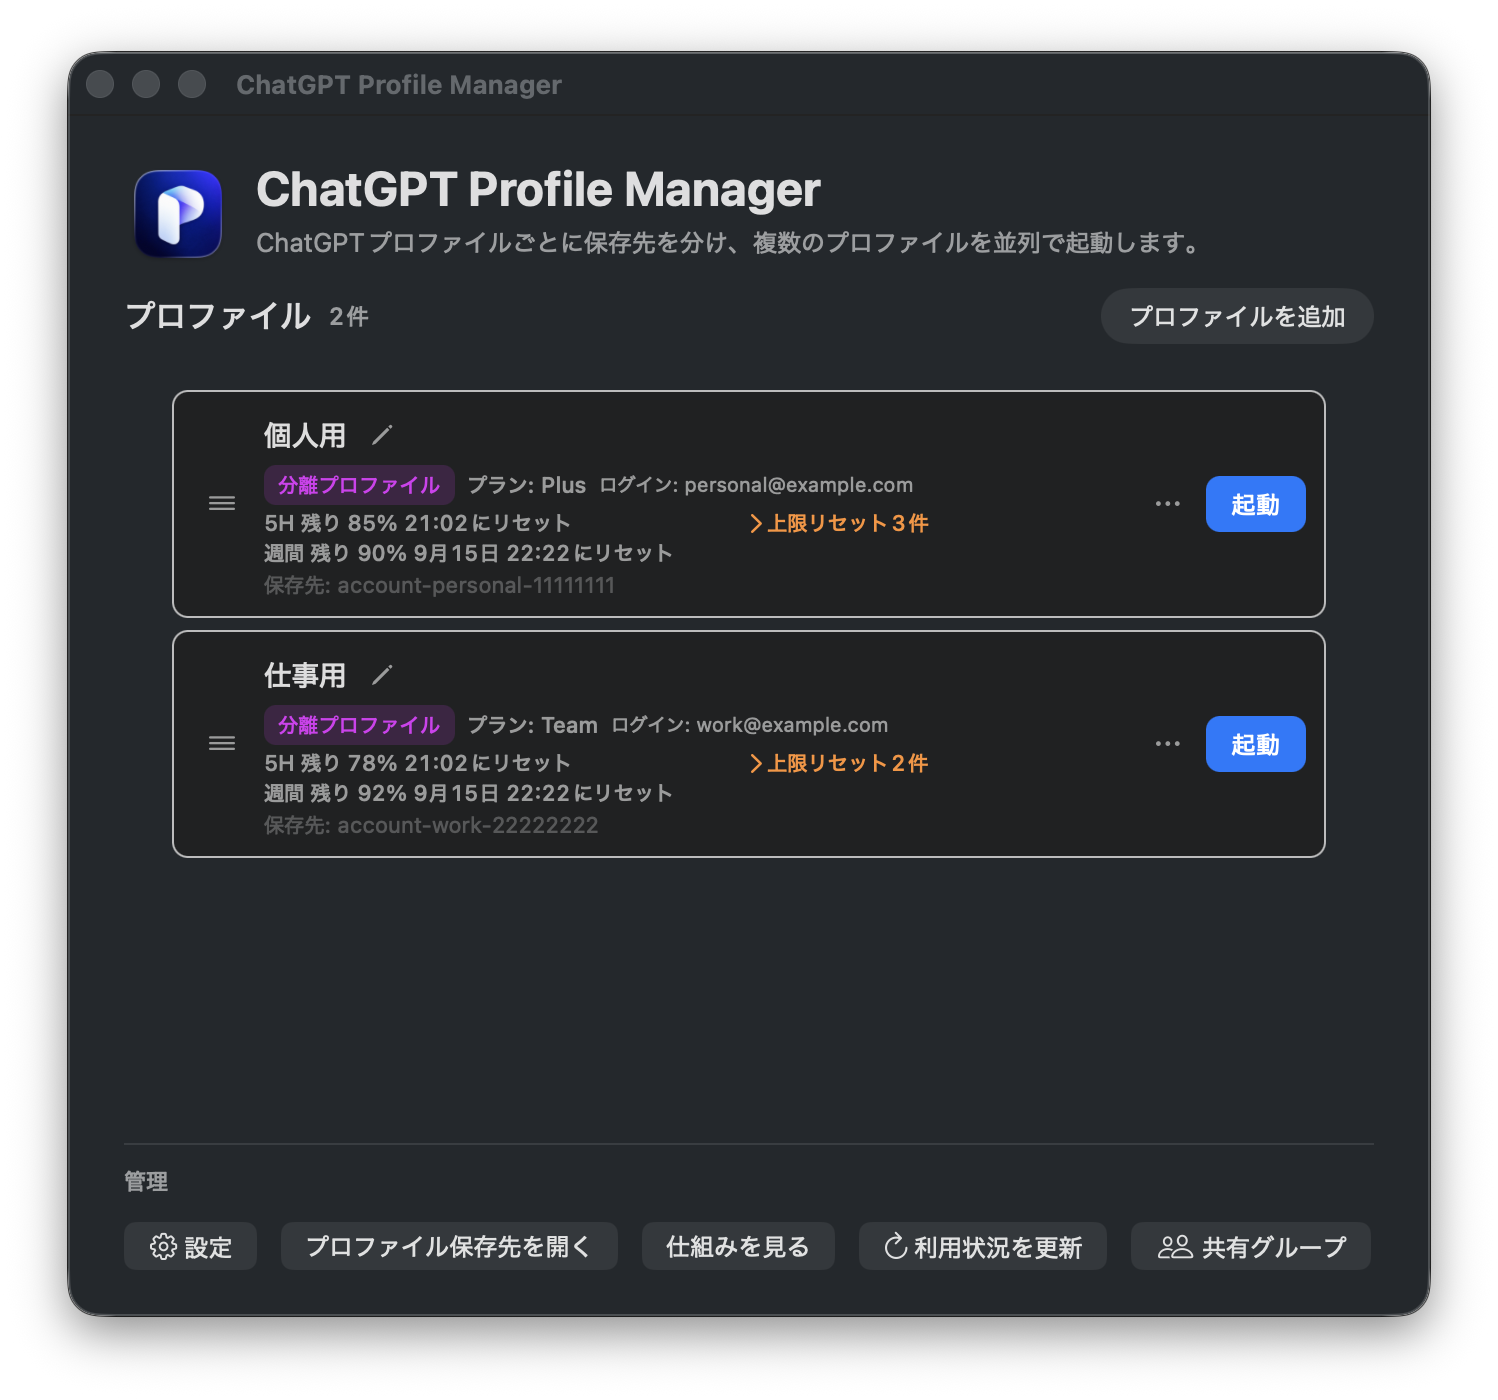
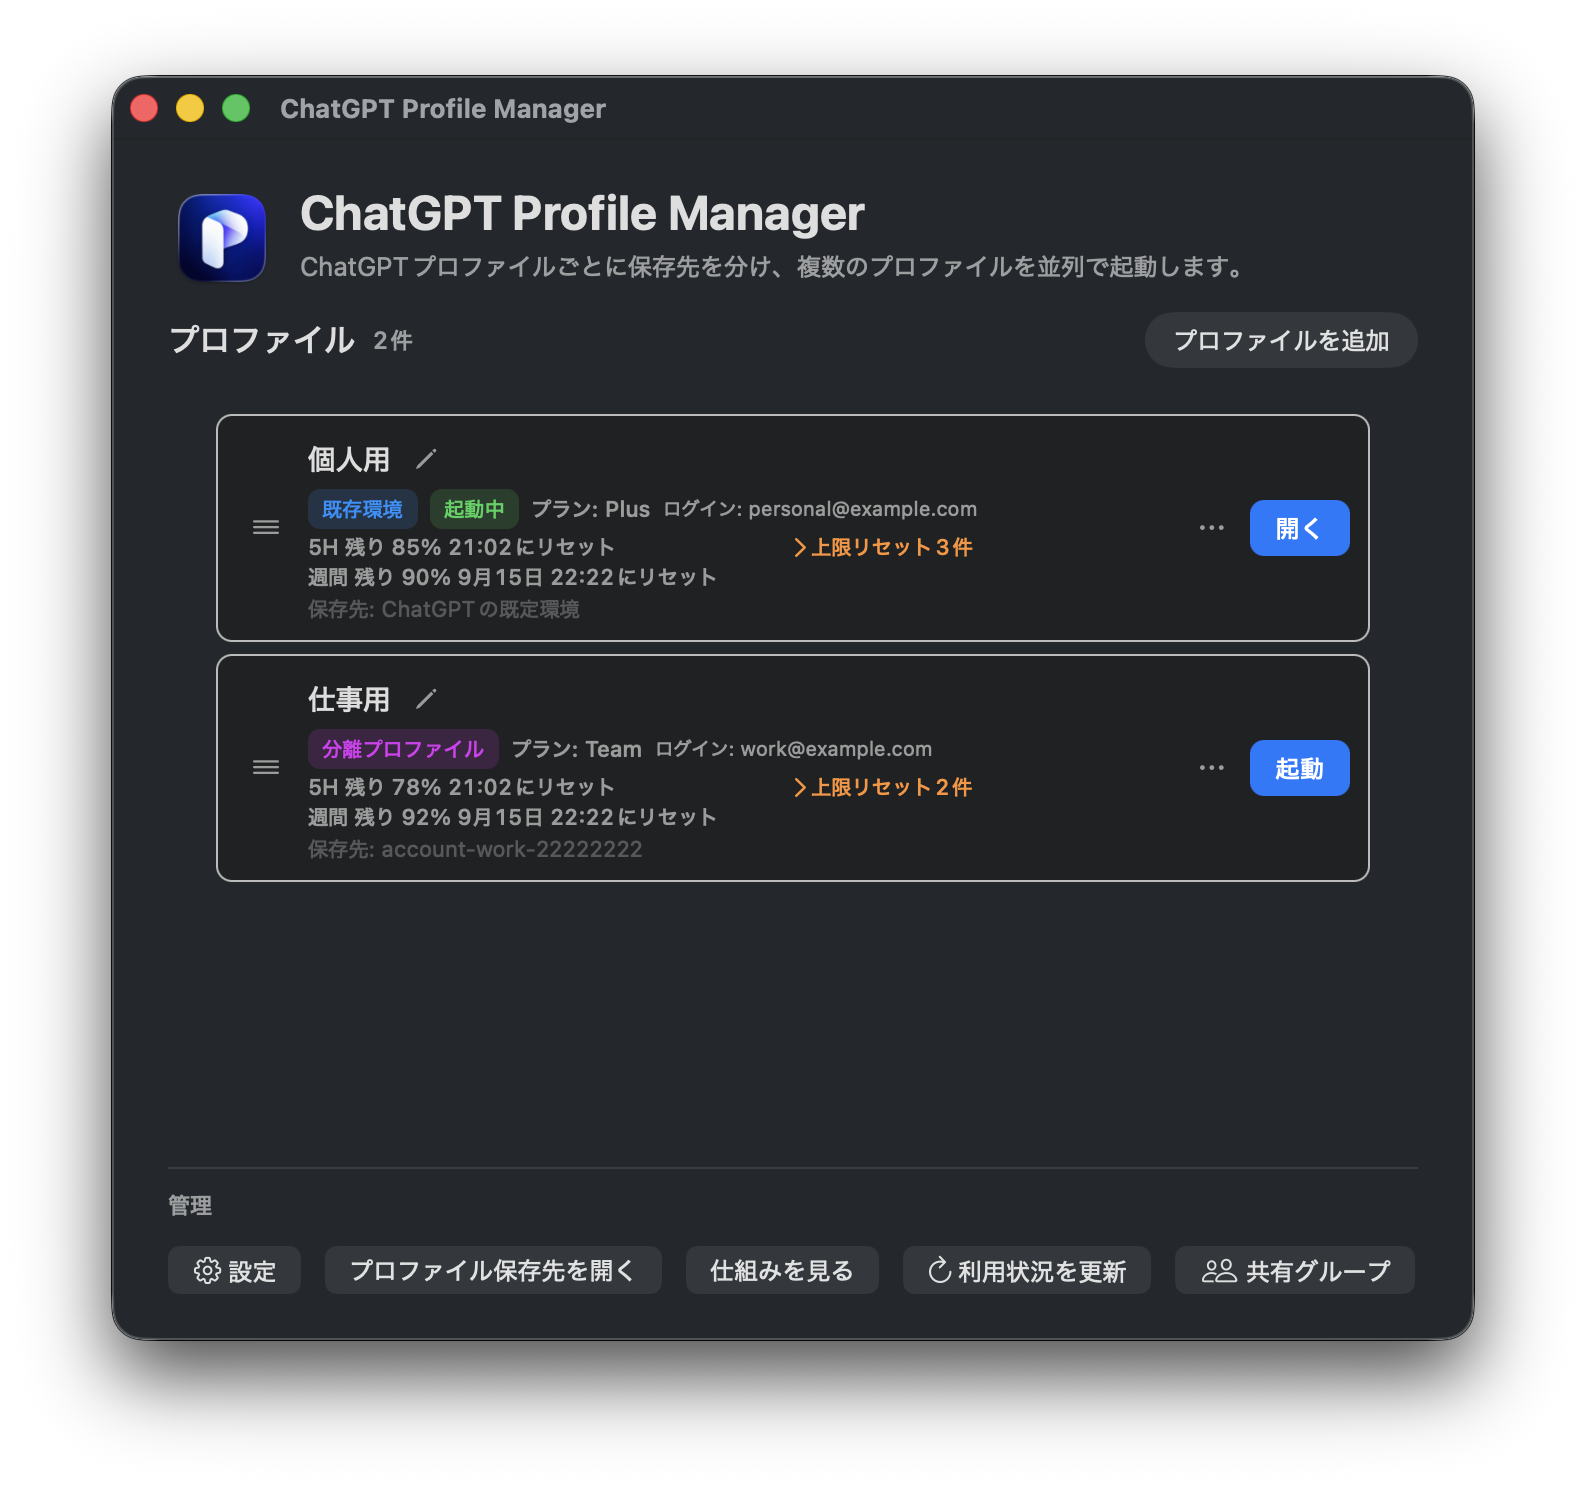
docs: add English mock screenshot

diff --git a/README.md b/README.md
@@ -13,12 +13,13 @@ ChatGPT Profile Manager is a macOS app for managing separate local environments 
 ## 画面イメージ / Screenshot
 
 <p align="center">
-  <img src="docs/images/profile-manager-mock.png" alt="ChatGPT Profile Managerのメイン画面（モックデータ） / ChatGPT Profile Manager main window with mock data" width="900">
+  <img src="docs/images/profile-manager-mock.png" alt="ChatGPT Profile Managerのメイン画面（日本語・モックデータ） / ChatGPT Profile Manager main window in Japanese with mock data" width="48%">
+  <img src="docs/images/profile-manager-mock-en.png" alt="ChatGPT Profile Manager main window in English with mock data" width="48%">
 </p>
 
-画面に表示されているプロファイル名、メールアドレス、利用状況などは説明用のモックデータです。実際のアカウント情報ではありません。
+左が日本語表示、右が英語表示です。画面に表示されているプロファイル名、メールアドレス、利用状況などは説明用のモックデータです。実際のアカウント情報ではありません。
 
-The profile names, email addresses, usage figures, and other values shown are mock data for illustration and are not real account information.
+The left image shows the Japanese UI and the right image shows the English UI. The profile names, email addresses, usage figures, and other values shown are mock data for illustration and are not real account information.
 
 ## これは何を分けるのか / What is separated
 
